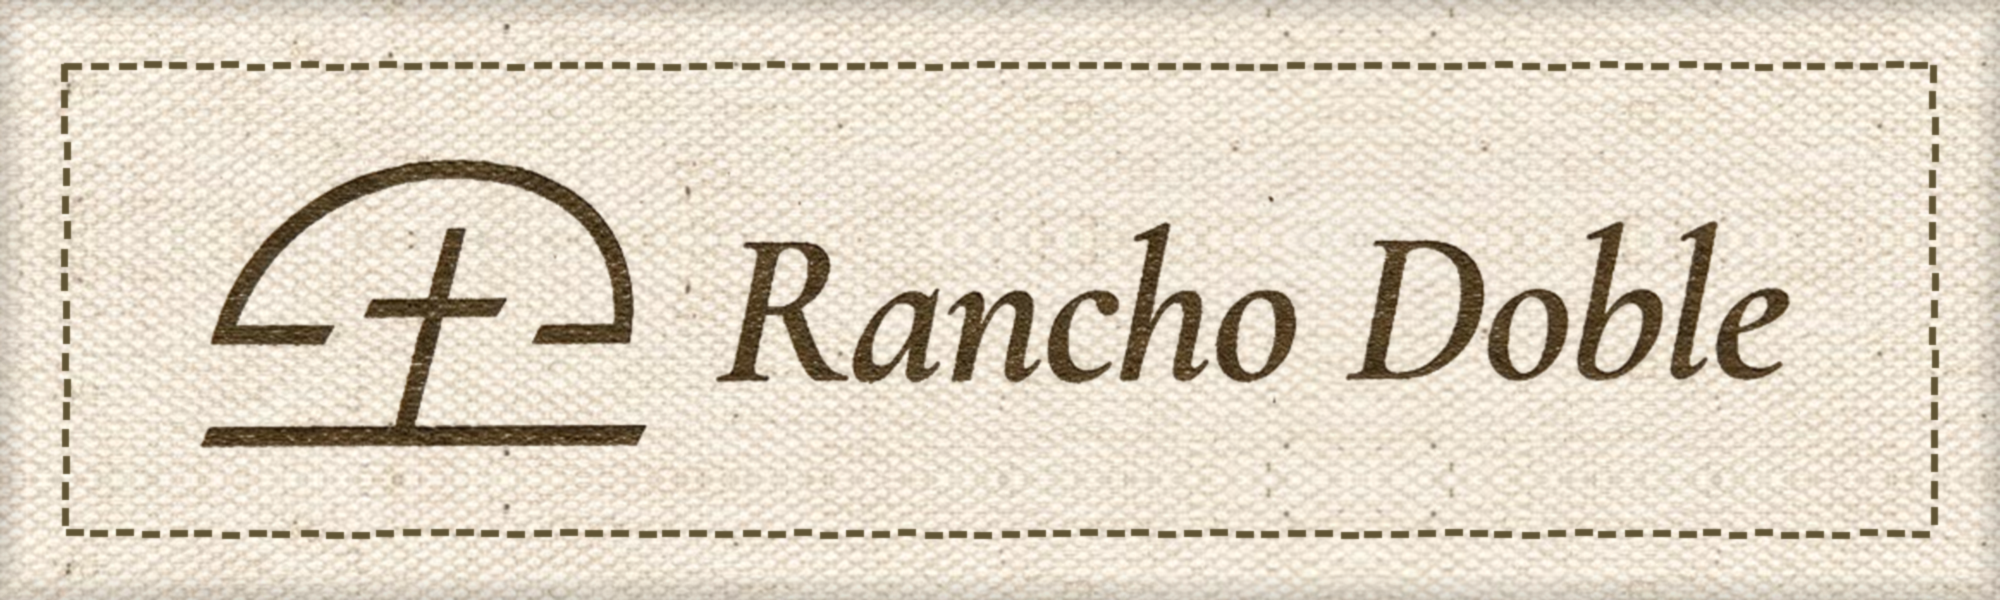
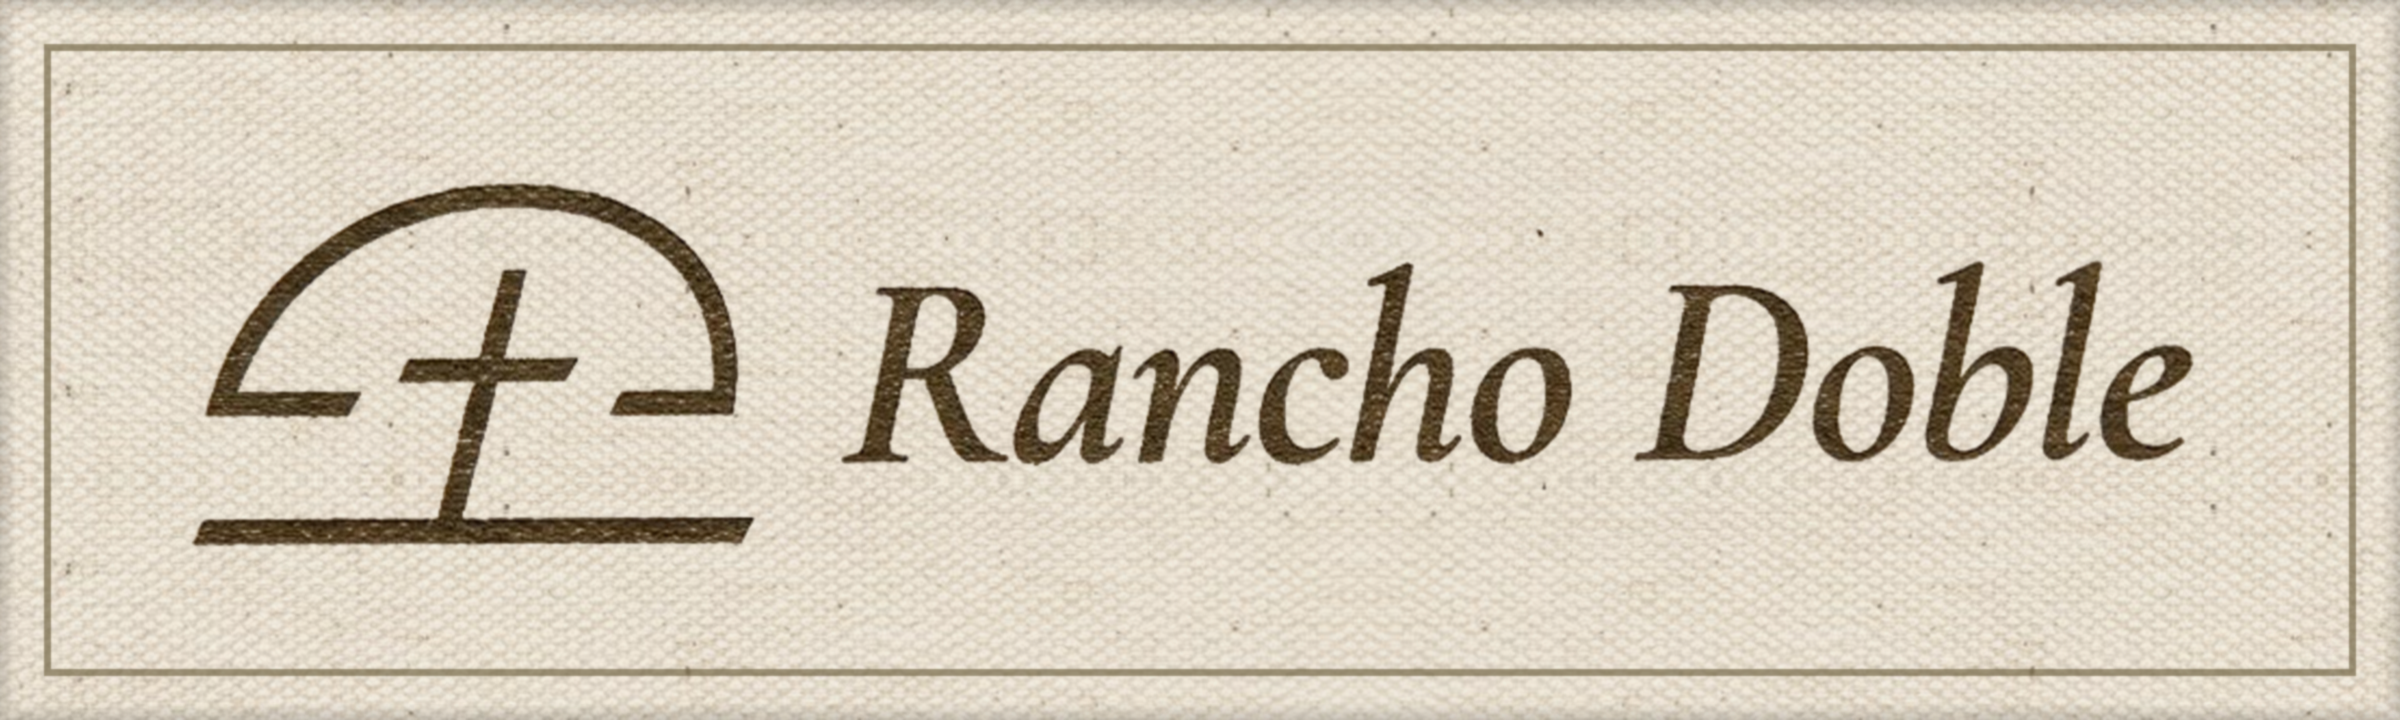
Rehacer el montaje: etiqueta rectangular limpia sobre el bolsillo
Se corrigen los defectos del primer montaje: el marco punteado se leía como
clip art, el borde irregular y la ondulación hacían ver la etiqueta mal
cortada, y el crema era demasiado brillante y nítido para la foto.

Ahora la etiqueta conserva forma rectangular con bordes rectos, filete fino
continuo y tono ecru apagado. Se ubica apoyada sobre el borde superior del
bolsillo de vista, centrada a lo ancho, con inclinación de 14,5 grados medida
sobre la costura real de la foto.

Claude-Session: https://claude.ai/code/session_01MxVJubxtJctdN3TFRFB8Uj

diff --git a/etiqueta/README.md b/etiqueta/README.md
@@ -26,11 +26,16 @@ originales.
 
 ## Criterios del montaje
 
-- Escala tomada del botón de la pretina (~1,7 cm ≈ 58 px) → la etiqueta mide
-  176 px de ancho en la foto de 1200 × 1200.
-- Inclinación de 8°, entre la línea de la pretina y la del bolsillo.
-- Perspectiva: el extremo derecho se reduce por estar más lejos del lente.
-- Curvatura leve para acompañar el volumen de la cadera.
-- Reiluminada con el degradado de la propia foto, con microtextura de la tela
-  y sombra de contacto hacia abajo y a la derecha (la luz entra desde arriba a
-  la izquierda).
+- Ubicación: apoyada sobre el borde superior del bolsillo de vista, centrada a
+  lo ancho del bolsillo (no en la punta), a ~15 px (≈0,4 cm) del borde.
+- Inclinación de 14,5°, medida sobre la línea real del bolsillo en la foto,
+  para que quede paralela a la costura.
+- Forma rectangular limpia: bordes rectos, sin recortes irregulares ni
+  ondulaciones. Sólo una comba mínima que acompaña el volumen de la cadera.
+- Perspectiva: el extremo derecho se reduce levemente por estar más lejos del
+  lente (25 px de alto a la izquierda, 22 px a la derecha).
+- Escala tomada del bolsillo (~33 px/cm) → 164 × 49 px sobre la foto de
+  1200 × 1200.
+- Reiluminada con el degradado de la propia foto, con microtextura de la tela y
+  sombra de contacto hacia abajo y a la derecha (la luz entra desde arriba a la
+  izquierda).
